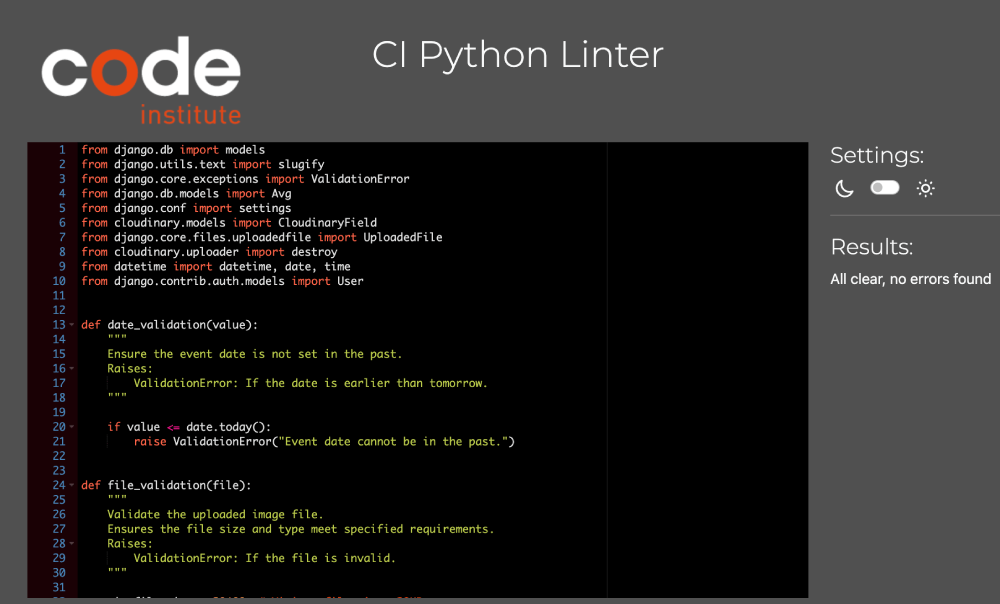
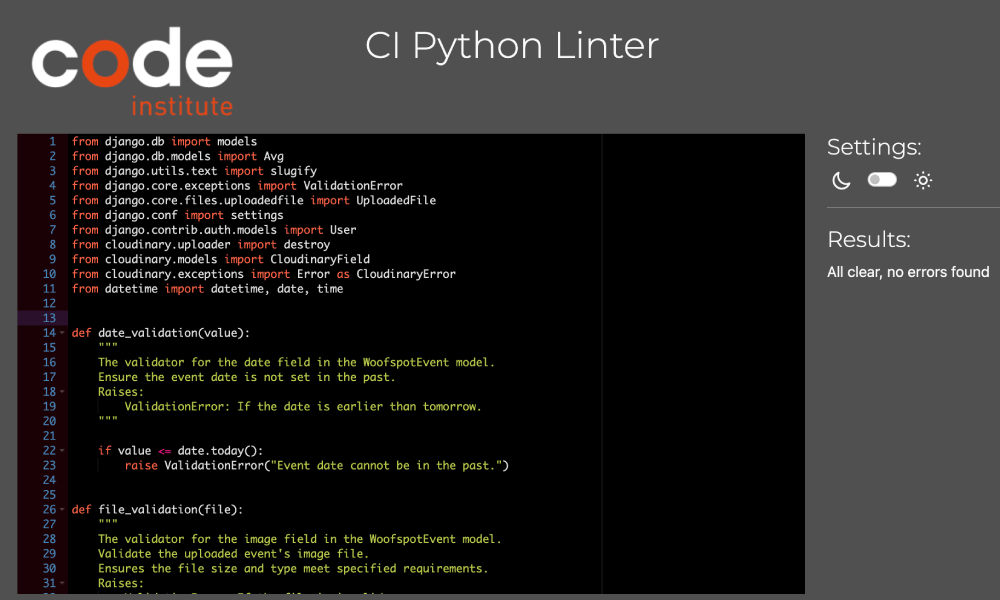
docs: Add comments to event_app models and forms

Changed region(s): [[0.0, 0.03, 0.806, 0.99], [0.806, 0.24, 0.992, 0.48], [0.341, 0.03, 0.682, 0.12]]

diff --git a/event_app/forms.py b/event_app/forms.py
@@ -1,11 +1,10 @@
 from django import forms
 from django.forms.widgets import ClearableFileInput
-from cloudinary.forms import CloudinaryJsFileField
-from datetime import date, timedelta
 from django.core.exceptions import ValidationError
 from django.core.validators import validate_email, MinLengthValidator
-from .models import WoofspotEvent
-from .models import Rating
+from datetime import date, timedelta
+
+from .models import WoofspotEvent, Rating
 
 # Reusable styles
 TEXT_STYLES = {
@@ -18,17 +17,28 @@ DATE_TIME_STYLES = {
     'style': 'width: auto; max-width: 150px;',
 }
 
+
 # Custom template
 class CustomClearableFileInput(ClearableFileInput):
     template_name = "event_app/custom_clearable_file_input.html"
 
 
-class EventOrganizerForm(forms.ModelForm):
+class EventHostForm(forms.ModelForm):
+    """
+    Form for creating and editing events.
+    Maps to the WoofspotEvent model and includes custom widgets
+    and validations.
+    """
+
     class Meta:
+        """
+        Metadata for the EventHostForm.
+        Specifies the associated model and its fields.
+        """
         model = WoofspotEvent
         fields = [
-            'title', 
-            'description', 
+            'title',
+            'description',
             'location',
             'date',
             'start_time',
@@ -36,6 +46,7 @@ class EventOrganizerForm(forms.ModelForm):
             'image',
         ]
         labels = {
+            # Labels for form fields
             'title': 'Title',
             'description': 'Description',
             'location': 'Location',
@@ -44,30 +55,32 @@ class EventOrganizerForm(forms.ModelForm):
             'end_time': 'To',
         }
         widgets = {
+            # Custom widgets for consistent styling and enhanced usability
             'title': forms.TextInput(attrs={
-                **TEXT_STYLES,  
+                **TEXT_STYLES,
                 'placeholder': 'Enter event title',
             }),
             'description': forms.Textarea(attrs={
-                **TEXT_STYLES, 
+                **TEXT_STYLES,
                 'rows': 5,
                 'placeholder': 'Enter description for your event',
             }),
             'location': forms.TextInput(attrs={
-                **TEXT_STYLES,  
+                **TEXT_STYLES,
                 'placeholder': 'Enter event location',
             }),
             'date': forms.DateInput(attrs={
-                **DATE_TIME_STYLES,  
+                **DATE_TIME_STYLES,
                 'type': 'date',
+                # Restricts date selection to start from tomorrow
                 'min': (date.today() + timedelta(days=1)).isoformat(),
             }),
             'start_time': forms.TimeInput(attrs={
-                **DATE_TIME_STYLES,  
+                **DATE_TIME_STYLES,
                 'type': 'time',
             }),
             'end_time': forms.TimeInput(attrs={
-                **DATE_TIME_STYLES,  
+                **DATE_TIME_STYLES,
                 'type': 'time',
             }),
             'image': CustomClearableFileInput(attrs={
@@ -75,16 +88,16 @@ class EventOrganizerForm(forms.ModelForm):
                 'accept': 'image/*',
             }),
         }
-        image = CloudinaryJsFileField(
-        attrs={'style': "margin-top: 30px"},
-        options={
-            'tags': "directly_uploaded",
-            'crop': 'limit', 'width': 1000, 'height': 1000,
-            'eager': [{'crop': 'fill', 'width': 150, 'height': 100}]
-        })
-        
+
 
 class ReviewForm(forms.ModelForm):
+    """
+    Form for submitting a review and rating for an event.
+    Fields:
+        - rating: A required field to select a rating from 1 to 5 stars.
+        - review_text: An optional field to add a textual review of the event.
+    """
+
     review_text = forms.CharField(
         required=False,
         label="Add a review",
@@ -94,47 +107,64 @@ class ReviewForm(forms.ModelForm):
             'placeholder': 'Write your review here...',
         })
     )
-    
+
     class Meta:
+        """
+        Metadata for the ReviewForm.
+        Specifies the associated model and its fields.
+        """
+
         model = Rating
         fields = [
-            'rating', 
+            'rating',
             'review_text'
         ]
         labels = {
             'rating': 'Overall rating',
         }
         error_messages = {
+            # Message shown if no rating is provided.
             'rating': {
                 'required': "Please select a rating.",
             },
         }
-    
+
     def __init__(self, *args, **kwargs):
-        self.event = kwargs.pop('event', None)  
+        """
+        Initialize the form, optionally associating it with a specific event.
+        ReviewForm requires a specific event to be passed when the
+        form is initialized.
+        """
+
+        # Get 'event' from kwargs if provided.
+        self.event = kwargs.pop('event', None)
         super().__init__(*args, **kwargs)
 
     def clean(self):
+        """
+        Custom validation for the form.
+        Ensures that the rating is present and processes the review text
+        if necessary.
+        """
         rating = self.cleaned_data.get('rating')
+
+        # Ensure the rating is provided
+        if not rating:
+            raise ValidationError("Please select a rating.")
+
         review_text = self.cleaned_data.get('review_text')
-        
+
         return self.cleaned_data
 
 
-def validate_name(value):
-    """Ensure name is not empty or only spaces."""
-
-    if not value.strip():
-        raise ValidationError("Name cannot be empty or spaces.")
-
-def validate_comment(value):
-    """Ensure comment is more than 2 characters and not just spaces."""
-    
-    if len(value.strip()) <= 2:
-        raise ValidationError("Comment must be more than 2 characters and cannot be just spaces.")
-
-
 class ContactUsForm(forms.Form):
+    """
+    Form for users to submit inquiries or feedback via the Contact Us page.
+    Fields:
+        - name: Required. The name of the user (min length: 2, max length: 100)
+        - email: Required. A valid email address.
+        - comment: Required. A message or feedback (min length: 5).
+    """
     name = forms.CharField(
         required=True,
         max_length=100,

diff --git a/event_app/models.py b/event_app/models.py
@@ -13,6 +13,7 @@ from datetime import datetime, date, time
 
 def date_validation(value):
     """
+    The validator for the date field in the WoofspotEvent model.
     Ensure the event date is not set in the past.
     Raises:
         ValidationError: If the date is earlier than tomorrow.
@@ -24,7 +25,8 @@ def date_validation(value):
 
 def file_validation(file):
     """
-    Validate the uploaded image file.
+    The validator for the image field in the WoofspotEvent model.
+    Validate the uploaded event's image file.
     Ensures the file size and type meet specified requirements.
     Raises:
         ValidationError: If the file is invalid.
@@ -81,11 +83,10 @@ class WoofspotEvent(models.Model):
     def clean(self):
         """
         Perform model-level validation for event timing.
-        Ensures start and end times are valid and within
-        specified constraints.
+        - Ensures start and end times are valid.
+        - Ensures no overlap with invalid times (e.g., night hours).
+        - Ensures duration constraints are respected (less 3 hours).
         """
-
-        super().clean()
 
         if self.date < date.today() or (self.date == date.today() and
            self.start_time < datetime.now().time()):
@@ -109,10 +110,19 @@ class WoofspotEvent(models.Model):
             raise ValidationError("Please make sure the event is no longer " +
                                   "than three hours")
 
+        # 3600 is 1 hour
         if time_difference.total_seconds() < 3600:
             raise ValidationError("The minimum event duration is one hour")
 
+        super().clean()
+
     def save(self, *args, **kwargs):
+        """
+        Validates the instance before saving.
+        Adds error handling for Cloudinary upload issues and
+        non specific exception.
+        """
+
         try:
             if not self.slug:
                 self.slug = slugify(self.title)
@@ -120,7 +130,8 @@ class WoofspotEvent(models.Model):
             super().save(*args, **kwargs)
 
         except CloudinaryError:
-            raise ValidationError("Image upload failed. Please check your connection or try again later.")
+            raise ValidationError("Image upload failed. Please check your " +
+                                  "connection or try again later.")
         except Exception as e:
             raise ValidationError(f"Unexpected error during save: {e}")
 
@@ -133,9 +144,12 @@ class WoofspotEvent(models.Model):
             # Remove the associated image from Cloudinary if it exists
             if self.image:
                 public_id = self.image.public_id
+                # Destroy is a Cloudinary-specific method
                 destroy(public_id, invalidate=True)
         except CloudinaryError:
-            raise ValidationError("Failed to delete image from Cloudinary. Please check your connection or try again later.")
+            raise ValidationError("Failed to delete image from Cloudinary. " +
+                                  "Please check your connection or try again" +
+                                  " later.")
 
         # Call the parent class's delete method
         super().delete(*args, **kwargs)
@@ -159,10 +173,12 @@ class WoofspotEvent(models.Model):
 
     def remove_image(self):
         """
-        Remove the event image from Cloudinary and unset the image field.
+        Remove the event image from Cloudinary and unset
+        the image field (admin panel).
         """
 
         public_id = self.image.public_id
+        # Destroy is a Cloudinary-specific method
         destroy(public_id, invalidate=True)
         self.image = None
         self.save(update_fields=['image'])
@@ -185,7 +201,6 @@ RATING_CHOICES = [(i, f"{i} Star{'s' if i > 1 else ''}") for i in range(1, 6)]
 class Rating(models.Model):
     """
     Represents a user's rating and optional review for an event.
-    Includes metadata for creation and update timestamps.
     """
 
     user = models.ForeignKey(User, on_delete=models.CASCADE,
@@ -203,20 +218,25 @@ class Rating(models.Model):
         Parameters:
             event: The event for which to calculate the average rating.
         Returns:
-            float: The average rating for the event,
-                   or None if no ratings exist.
+            The average rating for the event, or None if no ratings exist.
+            An integer if the result is a whole number, or float with
+            precision up to 1 decimal place.
         """
 
-        average_rating = event.event_ratings.aggregate(Avg('rating'))['rating__avg']
+        if event is None:
+            return None
+
+        average_rating = event.event_ratings.aggregate(
+                            Avg('rating'))['rating__avg']
         if average_rating is None:
             return None
-            
-        rounded_rating = round(average_rating, 1)
-            
-        return int(rounded_rating) if rounded_rating.is_integer() else rounded_rating
-        
 
-    
+        rounded_rating = round(average_rating, 1)
+
+        return (int(rounded_rating)
+                if rounded_rating.is_integer()
+                else rounded_rating)
+
     def __str__(self):
         """
         Return a human-readable string representation of the rating.

diff --git a/event_app/views.py b/event_app/views.py
@@ -12,7 +12,7 @@ from datetime import date, timedelta
 from smtplib import SMTPException
 import os
 
-from .forms import EventOrganizerForm, ContactUsForm, ReviewForm
+from .forms import EventHostForm, ContactUsForm, ReviewForm
 from .models import WoofspotEvent, Rating
 from .utils import validate_image_url, is_in_the_past, send_email, remove_leading_space, send_contact_us_email
 
@@ -247,7 +247,7 @@ def event_create(request):
 
     # Handle submit (POST)
     if request.method == "POST":
-        form = EventOrganizerForm(request.POST, request.FILES)
+        form = EventHostForm(request.POST, request.FILES)
         if form.is_valid():
             event = form.save(commit=False)
 
@@ -289,7 +289,7 @@ def event_create(request):
         return render(request, "event_app/event_create.html", {"form": form, "next": next,})
     
     # Handle page (GET)
-    form = EventOrganizerForm()   
+    form = EventHostForm()   
     return render(request, "event_app/event_create.html", {
         "form": form,
         "next": next,
@@ -333,7 +333,7 @@ def event_edit(request, slug):
 
     # Handle submit (POST)
     if request.method == "POST":
-        form = EventOrganizerForm(request.POST, request.FILES, instance=event)
+        form = EventHostForm(request.POST, request.FILES, instance=event)
         if form.is_valid():
             updated_event = form.save(commit=False)
             remove_leading_space(updated_event)
@@ -364,7 +364,7 @@ def event_edit(request, slug):
         return render(request, "event_app/event_edit.html", {"form": form, "event": event, "next": next })
 
     # Handle page (GET)
-    form = EventOrganizerForm(instance=event)
+    form = EventHostForm(instance=event)
     return render(request, "event_app/event_edit.html", {
         "form": form,
         "event": event,
@@ -431,7 +431,6 @@ def rating_submit(request, slug):
 
             return redirect("event_view", slug=event.slug)
         else:
-            form.add_error(None, "Form is invalid. Please correct the errors below.")
             return render(request, "event_app/rating_submit.html", {"form": form, "event": event,
                             "next": next,})
 
